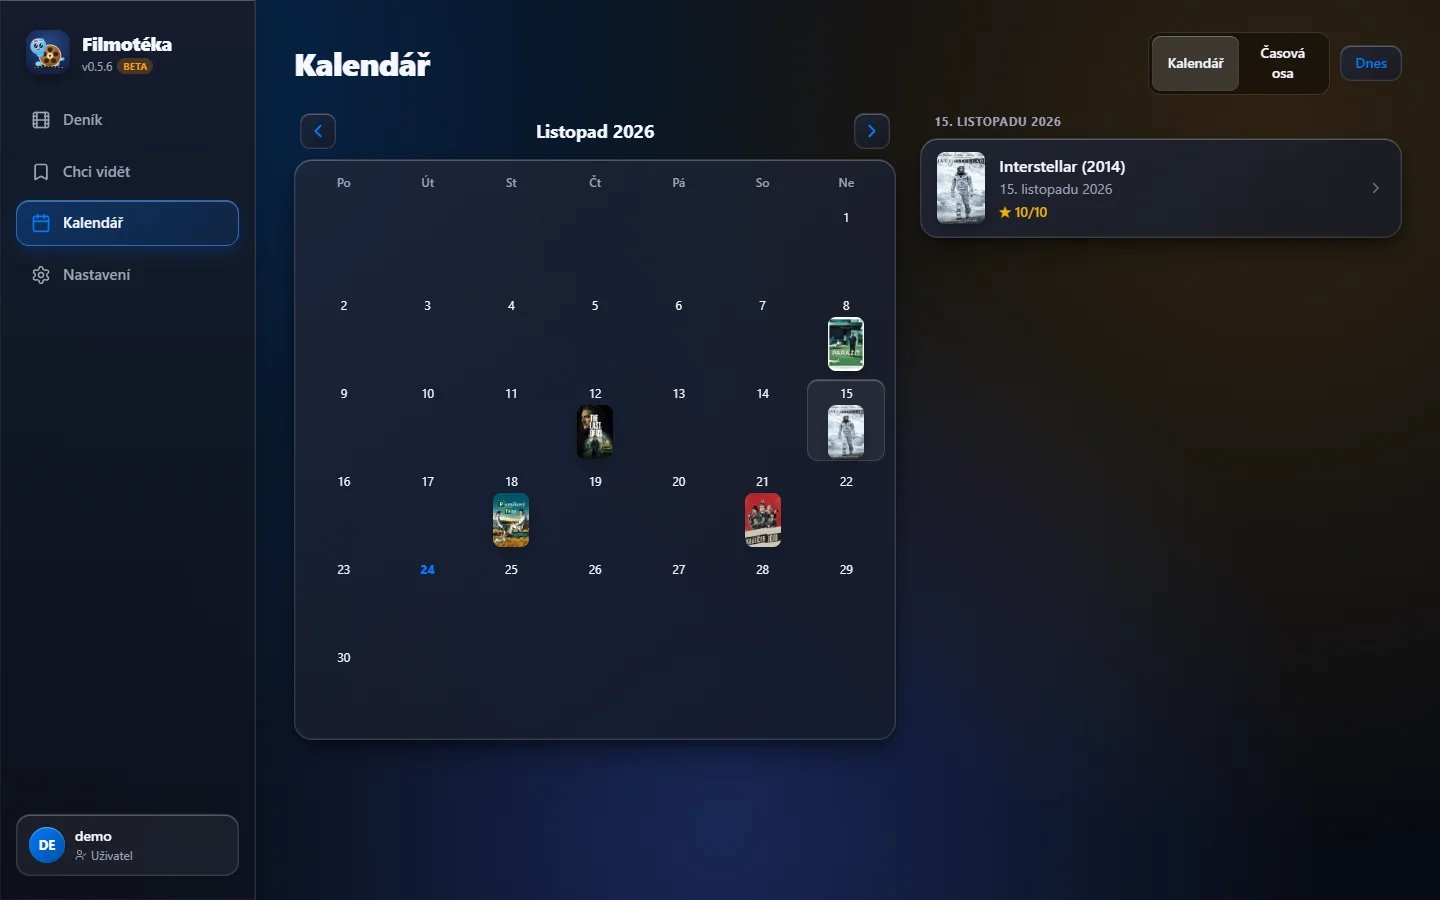
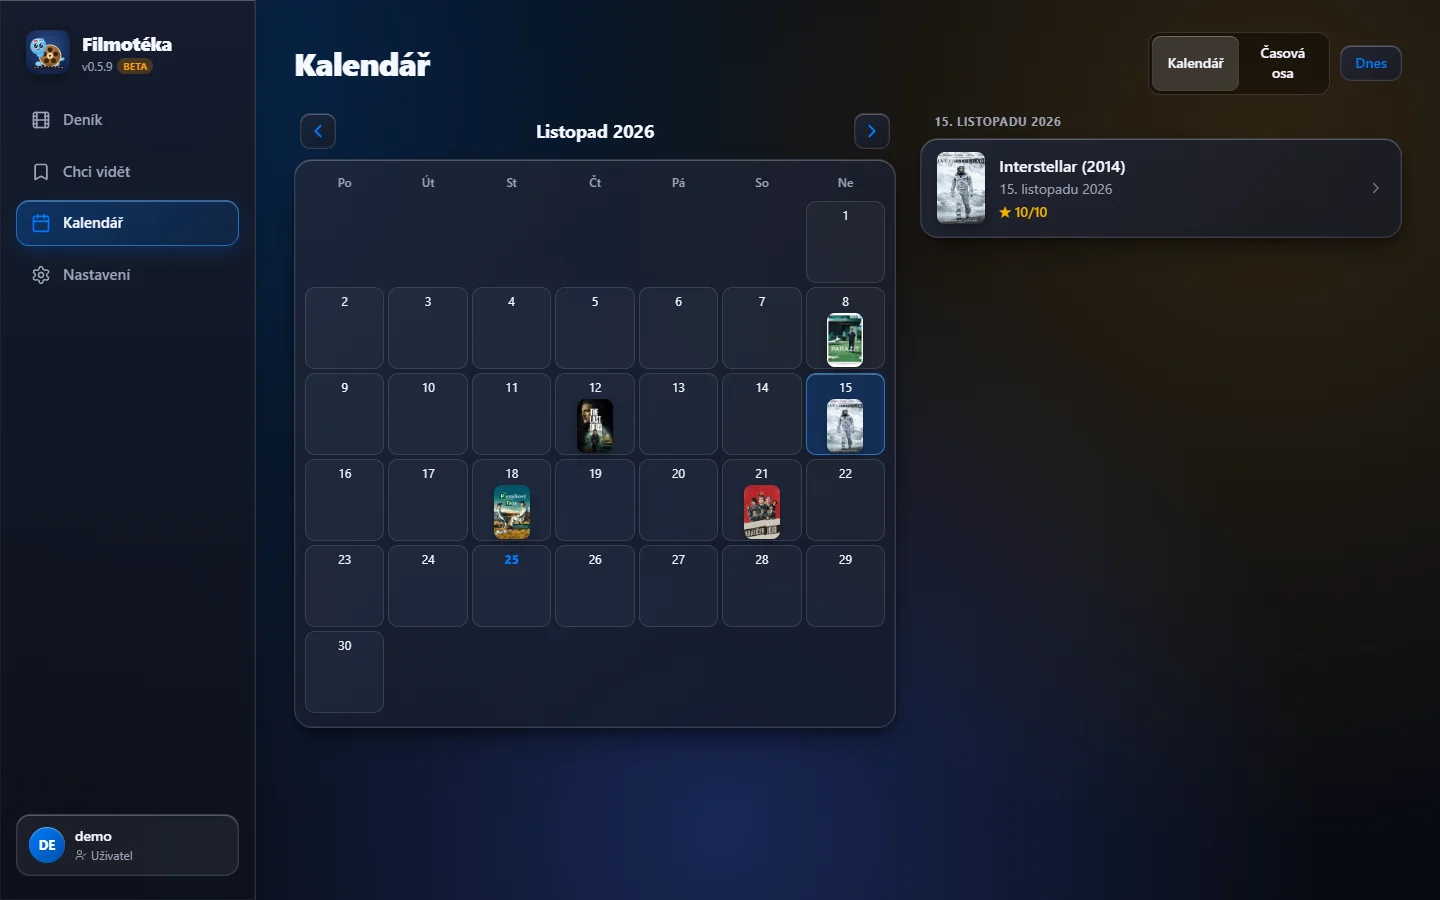
Calendar grid tiles with equal-width columns (0.5.9)
- Each day is a faint bordered tile; columns use minmax(0, 1fr) so poster days don't widen
- README calendar screenshots retaken (desktop, iPhone 17)

diff --git a/src/app/globals.css b/src/app/globals.css
@@ -1880,8 +1880,8 @@ a.ios-button-row {
 
 .calendar-grid {
   display: grid;
-  grid-template-columns: repeat(7, 1fr);
-  gap: 6px;
+  grid-template-columns: repeat(7, minmax(0, 1fr));
+  gap: 4px;
 }
 
 .calendar-weekday {
@@ -1892,11 +1892,12 @@ a.ios-button-row {
   padding-bottom: 6px;
 }
 
+/* Each day is a faint tile, so the month reads as a grid */
 .calendar-cell {
   height: 82px;
-  border: 1px solid transparent;
-  background: transparent;
-  border-radius: 11px;
+  border: 1px solid color-mix(in srgb, var(--text-secondary) 20%, transparent);
+  background: color-mix(in srgb, var(--text-secondary) 6%, transparent);
+  border-radius: 10px;
   display: flex;
   flex-direction: column;
   align-items: center;
@@ -1907,10 +1908,12 @@ a.ios-button-row {
 
 .calendar-cell:hover:not(.empty) {
   background: var(--glass-bg-subtle);
-  border-color: var(--glass-border);
+  border-color: color-mix(in srgb, var(--text-secondary) 40%, transparent);
 }
 
 .calendar-cell.empty {
+  border-color: transparent;
+  background: transparent;
   cursor: default;
 }
 

diff --git a/src/lib/changelog.ts b/src/lib/changelog.ts
@@ -4,11 +4,16 @@ export interface Release {
   items: string[];
 }
 
-export const APP_VERSION = "0.5.8";
-export const BUILD_NUMBER = "15";
+export const APP_VERSION = "0.5.9";
+export const BUILD_NUMBER = "16";
 export const IS_BETA = APP_VERSION.startsWith("0.");
 
 export const RELEASES: Release[] = [
+  {
+    version: "0.5.9",
+    date: "2026-11-25",
+    items: ["Kalendář má viditelnou mřížku: každý den je samostatné políčko."],
+  },
   {
     version: "0.5.8",
     date: "2026-11-25",

diff --git a/CHANGELOG.md b/CHANGELOG.md
@@ -2,6 +2,9 @@
 
 Formát: `## <verze> (<YYYY-MM-DD>)`, pod ním odrážky `- `. Nejnovější verze nahoře.
 
+## 0.5.9 (2026-11-25)
+- Kalendář má viditelnou mřížku: každý den je samostatné políčko.
+
 ## 0.5.8 (2026-11-25)
 - Nápověda u uživatelského jména na přihlášení ukazuje obecný příklad („bohumil“).
 
